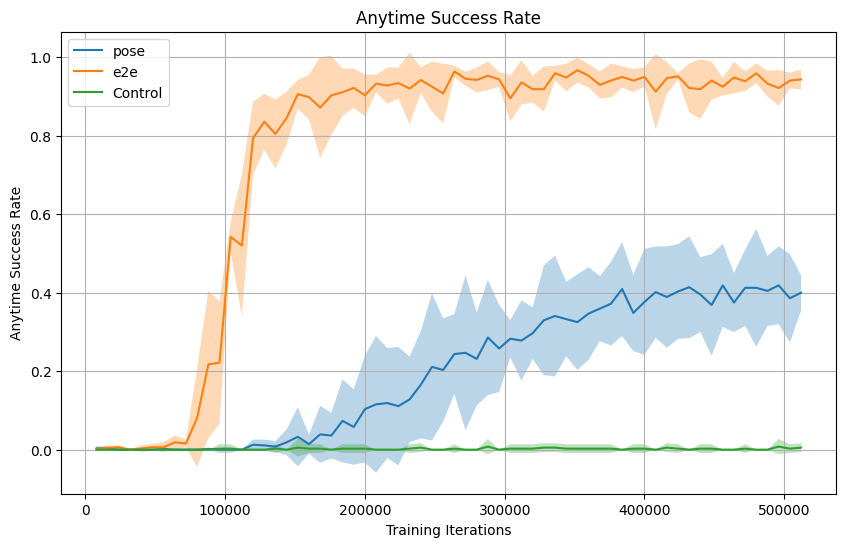
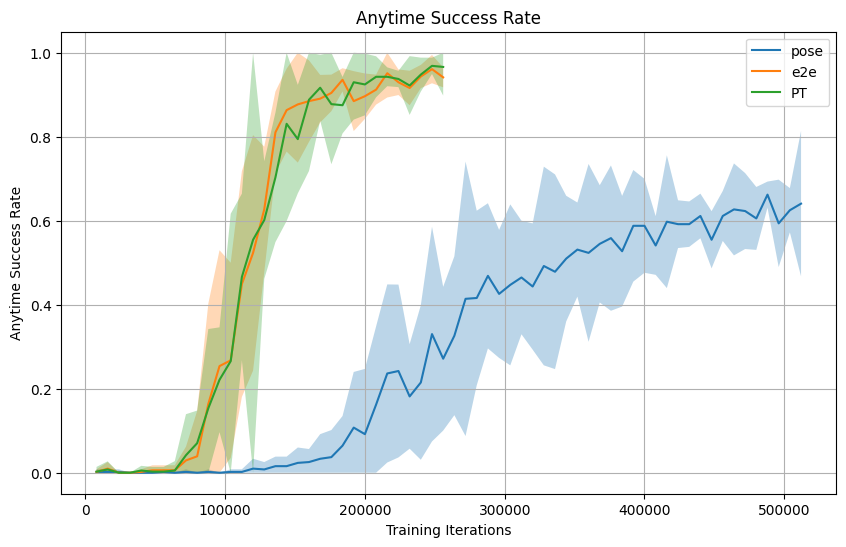
Update README for clarity and improve asset files for evaluation results

diff --git a/README.md b/README.md
@@ -1,82 +1,92 @@
-# End-to-end RGB SAC vs. Position-Estimator + State SAC
+# RGB SAC vs. Estimator SAC
 
-This project compares two ways of solving ManiSkill’s `PickCube-v1` task with Soft Actor-Critic (SAC):
+This project compares two approaches for solving ManiSkill’s `PickCube-v1` task using Soft Actor-Critic (SAC):
 
-1. End-to-end learning from RGB observations.
-2. A hybrid approach that predicts the cube position from RGB once at the start of the episode and feeds that estimate into a state-based SAC policy.
+1. End-to-end learning directly from RGB observations.
+2. A hybrid approach that predicts the cube position from RGB at the start of the episode and feeds that estimate into a state-based SAC policy.
 
-| End-to-End RGB SAC (15/16 Success) | Position-Estimator + State SAC (9/16 Success) |
+| End-to-End RGB SAC (16/16 Success) | Position-Estimator + State SAC (9/16 Success) |
 |:---:|:---:|
 | ![End-to-End Eval](assets/e2e.gif) | ![Estimator Eval](assets/pose.gif) |
 
-The main question was simple: is it better to let the policy learn directly from pixels, or to compress vision into a small, task-relevant state estimate first?
+The core question is simple: is it better to let a policy learn directly from pixels, or to first compress that visual data into a small, task-relevant state estimate?
 
-## Key findings
+## Key Findings
 
-- **End-to-end RGB SAC clearly outperformed the estimator-based pipeline**, finishing at roughly 0.9 success versus 0.4.
-- **Estimator-conditioned SAC had an early speed advantage**, but it did not maintain that lead as training progressed.
-- **A learned cube position alone was not enough**, indicating that the policy benefited from richer scene information than a compact state estimate could provide.
+- **End-to-end RGB SAC clearly outperformed the estimator pipeline**, finishing with a ~0.9 success rate versus ~0.6.
+- **Estimator-conditioned SAC had an early speed advantage**, but it lost its lead as training progressed.
+- **A learned cube position alone was insufficient**, indicating the policy relies heavily on richer scene information that a compact state estimate lacks.
+- **Pose estimation pretraining did not improve end-to-end performance** or sample efficiency, suggesting the policy easily learns useful visual features on its own during end-to-end training.
 
-## Why this is interesting
+## Why This Matters
 
-Simulation gives access to privileged state information that is not normally available in the real world. I wanted to test whether a learned visual position estimator could bridge that gap well enough to support strong control, while keeping the policy input compact and efficient.
+Simulation gives access to privileged state information rarely available in the real world. I wanted to test whether a learned visual position estimator could bridge that gap well enough to support strong control, all while keeping the policy input compact and efficient. 
 
-This turned into a comparison between:
-- learning control directly from images, and
-- learning a visual abstraction first, then controlling from that abstraction plus state.
+This created a direct comparison between learning control directly from images and learning a visual abstraction first to drive control.
 
 ## Setup
 
-All experiments used ManiSkill `PickCube-v1`. Two comparisons were conducted: a practical comparison leveraging the architectural advantages of the position estimator approach, and a controlled comparison keeping models and observations as similar as possible using the same base configuration.
+All experiments used ManiSkill `PickCube-v1`. The goal is to pick up a cube, bring it to a target position, and hold it steady.
 
-### Approach 1: End-to-end RGB SAC
-The policy received RGB observations directly and learned control end-to-end.
+### Approach 1: End-to-end SAC
+The policy received RGB observations directly and learned control end-to-end. I also tested pretraining the encoder using position estimation to see if it boosted initial sample efficiency.
 
-### Approach 2: Position-estimator + state SAC
-A pretrained CNN estimated the cube position from RGB at the start of each episode. That predicted position was concatenated with the policy state input and reused for the rest of the episode.
+### Approach 2: Position-estimator SAC
+A pretrained CNN estimated the cube position from RGB at the start of each episode. The model concatenated that predicted position with the policy state input and reused it for the rest of the episode. 
 
-I trained the estimator only on the cube’s initial position. In this task, the cube stays fixed until the robot contacts it, so this setup matched the intended deployment assumption and kept the estimator focused on information available before interaction.
+I trained the estimator only on the cube’s initial position. Since the cube stays fixed until the robot touches it, this setup matched the intended deployment assumption and kept the estimator focused entirely on pre-interaction data.
 
-## Controlled Comparison
+## Model Differences
 
-With model size and resolution held constant between approaches, the position estimation approach performed poorly, ultimately failing to learn a successful policy. In order for an estimator-based approach to be viable, its inherent architectural advantages needed to be leveraged. Specifically, using a larger model, applying Batch Normalization, and increasing the input resolution allowed for a much more precise position estimate. These changes brought the RMSE down from about 0.04 to 0.01, reducing the cube position error from roughly 4cm down to 1cm.
+The two approaches used slightly different architectures. The estimator required supervised pretraining with BatchNorm, which was crucial for performance and lowered the MSE loss by roughly 30x (final MSE of ~0.00007 vs ~0.002). In contrast, the end-to-end RL encoder skipped BatchNorm entirely.
 
-## Practical Comparison (Model Differences)
+| Approach | Total Parameters |
+|---|---|
+| **End-to-end SAC** | ~373,000 |
+| **Position-estimator + state SAC** | ~341,000 (197k estimator + 144k policy) |
 
-The two approaches in the final practical comparison did not use identical model sizes or image resolutions. Furthermore, the estimator used supervised pretraining with BatchNorm, while the end-to-end RL encoder did not. Therefore, this comparison is highly informative regarding real-world deployment tradeoffs, but is not a perfectly controlled architecture match.
+The policy MLP input size drove the major difference in parameter counts. The estimator outputs a 3D position, while the end-to-end policy receives a 128D encoding. Both architectures concatenate their respective vision outputs with a 29D state vector.
 
-| Approach | Observation Resolution | Vision Model Size | Policy MLP Hidden Size | Total Parameters |
-|---|---|---|---|---|
-| **End-to-end SAC** | 96x96 | Smaller CNN | 256 | ~366,000 |
-| **Position-estimator + state SAC** | 128x128 | Larger CNN | 384 | ~609,000 (294k estimator + 315k policy) |
+## Pose Estimation as a Tuning Heuristic
 
-These differences were driven by the computational advantages of the position estimation approach. Because the estimator only ran once per episode, it could be trained with a larger model and higher resolution without slowing down policy training. Conversely, the end-to-end method required a smaller model and lower resolution to keep training time reasonable and memory use manageable.
+One unexpected benefit of the position-estimator pipeline was its utility for rapid architecture search and hyperparameter tuning. Training a CNN for supervised pose estimation takes only seconds, whereas training the full RL policy takes hours. 
+
+Crucially, the CNN architecture that achieved the lowest MSE on the pose estimation task was also the most effective vision encoder for the end-to-end RL pipeline (with the notable exception of removing BatchNorm). This makes supervised pose estimation an excellent, low-cost proxy for tuning the vision backbone before committing to expensive RL runs.
 
 ## Results
 
-Despite the architectural advantages given to the position estimator, the end-to-end method was clearly better by final performance.
+Despite the position estimator's early speed advantage, the end-to-end method ultimately achieved better final performance, sample efficiency, and wall-clock time. 
 
-- End-to-end RGB SAC reached about 0.9 success.
-- Position-estimator + state SAC reached about 0.4 success.
-- The estimator-based method had a short-lived wall-clock advantage early in training, but did not keep up.
+- End-to-end RGB SAC reached ~0.9 success.
+- Position-estimator + state SAC reached ~0.6 success.
+- Pretraining the encoder resulted in a negligible difference for end-to-end performance.
 
-The figures below show success rate over wall-clock time, followed by return, anytime success rate, and final success rate over training steps.
+The figures below show the average success rate across seeds over wall-clock time, followed by return, anytime success rate, and final success rate over training steps. 
+
+**(e2e - End-to-end, PT - Pretrained encoder, pose - Position estimator)**
 
 ![Success rate vs. wall clock time](assets/any_succ_vs_time.png)
 
 | Return vs. training steps | Anytime success vs. training steps | End success vs. training steps |
 |:---:|:---:|:---:|
-| ![](assets/return_vs_step.png) | ![](assets/any_succ_vs_step.png) | ![](assets/end_succ_vs_step.png) |
+| ![assets/return_vs_step.png](assets/return_vs_step.png) | ![assets/any_succ_vs_step.png](assets/any_succ_vs_step.png) | ![assets/end_succ_vs_step.png](assets/end_succ_vs_step.png) |
 
 ## Takeaways
 
-The learned position estimate captured an important part of the task, but not enough of it. End-to-end vision gave the policy access to richer scene information and real-time visual feedback, which mattered a lot once the robot started interacting with the cube.
+The learned position estimate captured an important part of the task, but not enough of it. End-to-end vision gave the policy access to richer scene information and real-time visual feedback, which became critical once the robot started interacting with the cube.
 
 The biggest lesson from this project is that compressing vision into a single predicted object position can be too restrictive, even when that position seems like the most important feature.
 
-## Repo notes
+## Repo Notes
 
-- `e2e/`: end-to-end RGB SAC experiments
-- `pose/`: position estimator and estimator-conditioned SAC experiments
-- `multi_main.py`: runs multiple seeded instances
-- `config.yaml`: shared experiment settings
+- `e2e/`: End-to-end RGB SAC experiments.
+- `pose/`: Position estimator and estimator-conditioned SAC experiments.
+- `multi_main.py`: Runs multiple seeded instances.
+- `config.yaml`: Shared experiment settings.
+
+## Acknowledgments
+
+This project builds on the foundations of several excellent tools and algorithms:
+- **Soft Actor-Critic (SAC):** The core reinforcement learning algorithm driving the policies.
+- **BRO:** For the baseline architecture and reinforcement learning implementations.
+- **ManiSkill:** The robotic manipulation benchmark providing the `PickCube-v1` environment and high-performance simulation framework.
